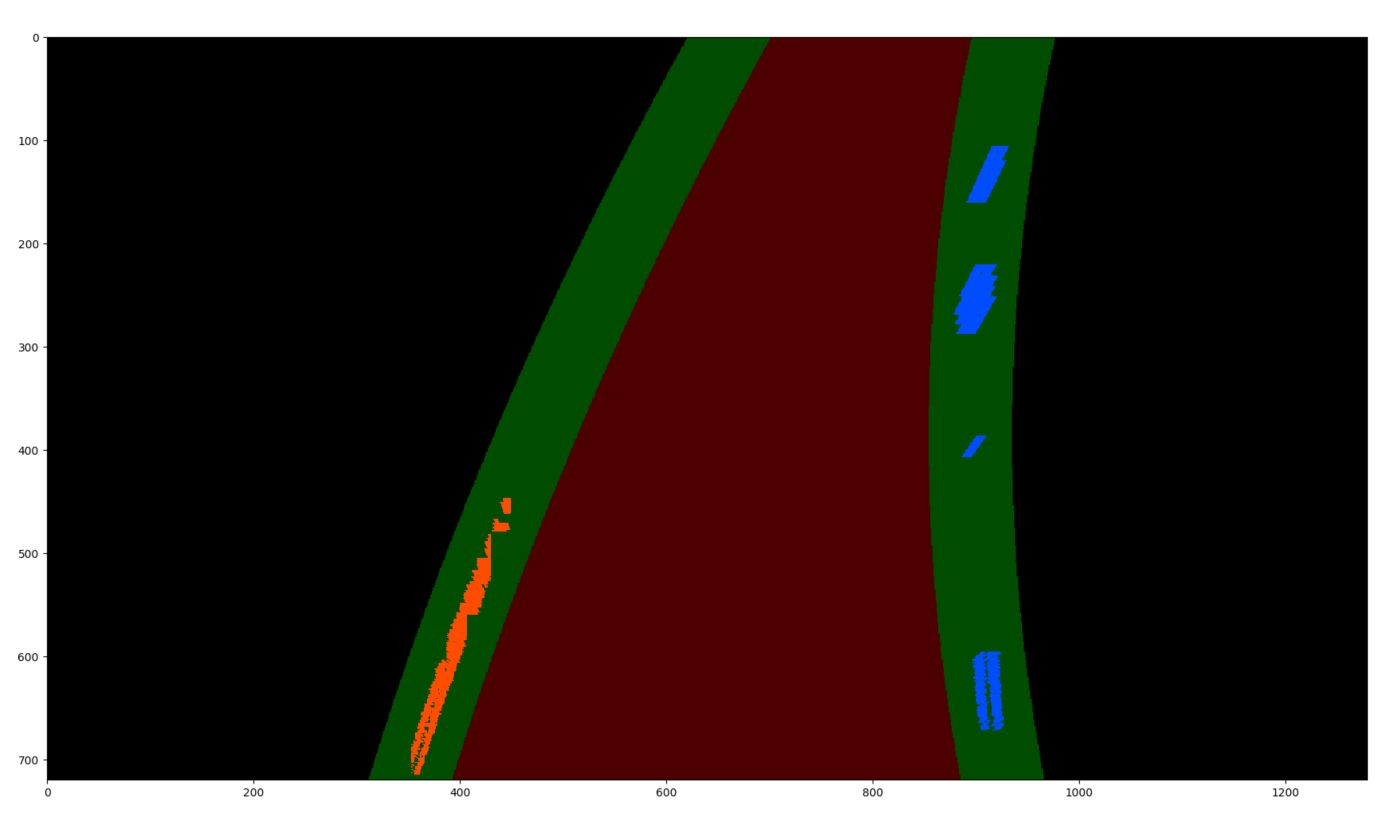
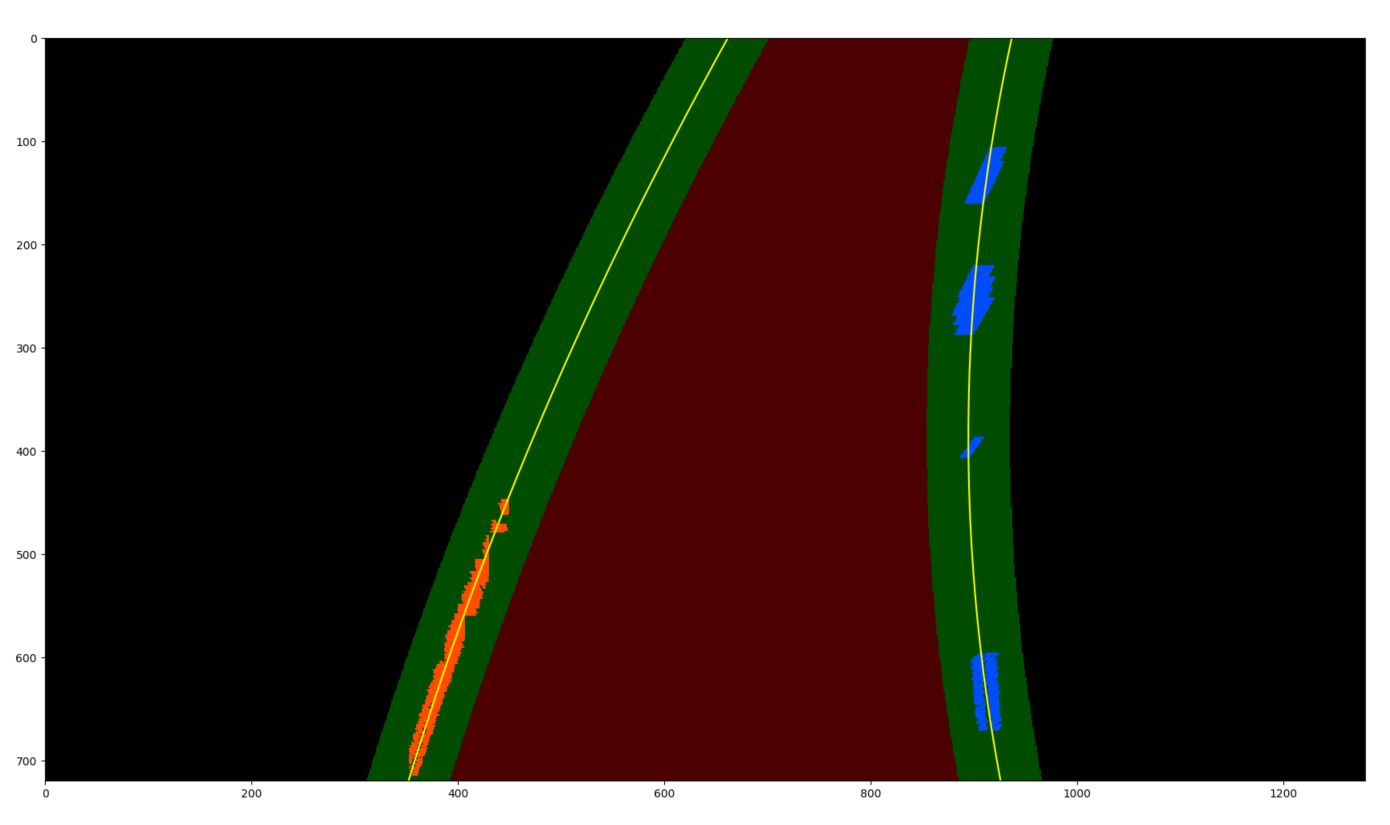
Beautify

diff --git a/solution/P4_writeup_Antonia.md b/solution/P4_writeup_Antonia.md
@@ -261,12 +261,6 @@ And this produced the final output image of the function contractIncrease()
 ![contractIncreaseBridge][image27]: 
 
 
-########################################
-I used a combination of color and gradient thresholds to generate a binary image (thresholding steps at lines # through # in `another_file.py`).  Here's an example of my output for this step.  (note: this is not actually from one of the test images)
-
-![alt text][image3]
-########################################
-
 ####3. Describe how (and identify where in your code) you performed a perspective transform and provide an example of a transformed image.
 
 see above in the pipeline Step 4. An example you see in the Juyper notebook ![Warp Example][image4]
@@ -274,18 +268,13 @@ see above in the pipeline Step 4. An example you see in the Juyper notebook ![Wa
 
 ####4. Describe how (and identify where in your code) you identified lane-line pixels and fit their positions with a polynomial?
 
-########################################
-Then I did some other stuff and fit my lane lines with a 2nd order polynomial kinda like this:
+There are three methods which identify the lane-line pixels and try to calculate the polynomial fit:
+- line 471: histoCurvatureFit() : This calculates the most probable lane-line pixels with the technique of sliding window search in case there was no previous lane found
+- line 600: nextFramehistoCurvatureFit() : This calculates the most probable lane-line pixels with the technique of sliding window search in case there was already a previous lane found
+- line 83: processLanePts() : takes the output of the above two functions and performs a polynomial fit with 2nd order polynomial
 
-![alt text][image5]
-########################################
-
-[image24]: ./../output_images/challenge_searchingWindow.jpg
-[image25]: ./../output_images/challenge_finalResult.jpg
-
-
-
-
+Here is an example of the sliding window search (orange = left line pixels, blue = right line pixels, green = sliding window search , yellow = polynomial fit curve)
+![slidingWindowSearch][image24]:
 
 ####5. Describe how (and identify where in your code) you calculated the radius of curvature of the lane and the position of the vehicle with respect to center.
 
@@ -366,9 +355,8 @@ The code is split across the file Line.py, e.g line 118, 200-205, 348
 ####6. Provide an example image of your result plotted back down onto the road such that the lane area is identified clearly.
 
 ########################################
-I implemented this step in lines # through # in my code in `yet_another_file.py` in the function `map_lane()`.  Here is an example of my result on a test image:
-
-![alt text][image6]
+I implemented this step in lines 393-431 code in function displayLane().  Here is an example of my result on a test image:
+![challengeFinalResult][image25]
 ########################################
 
 
